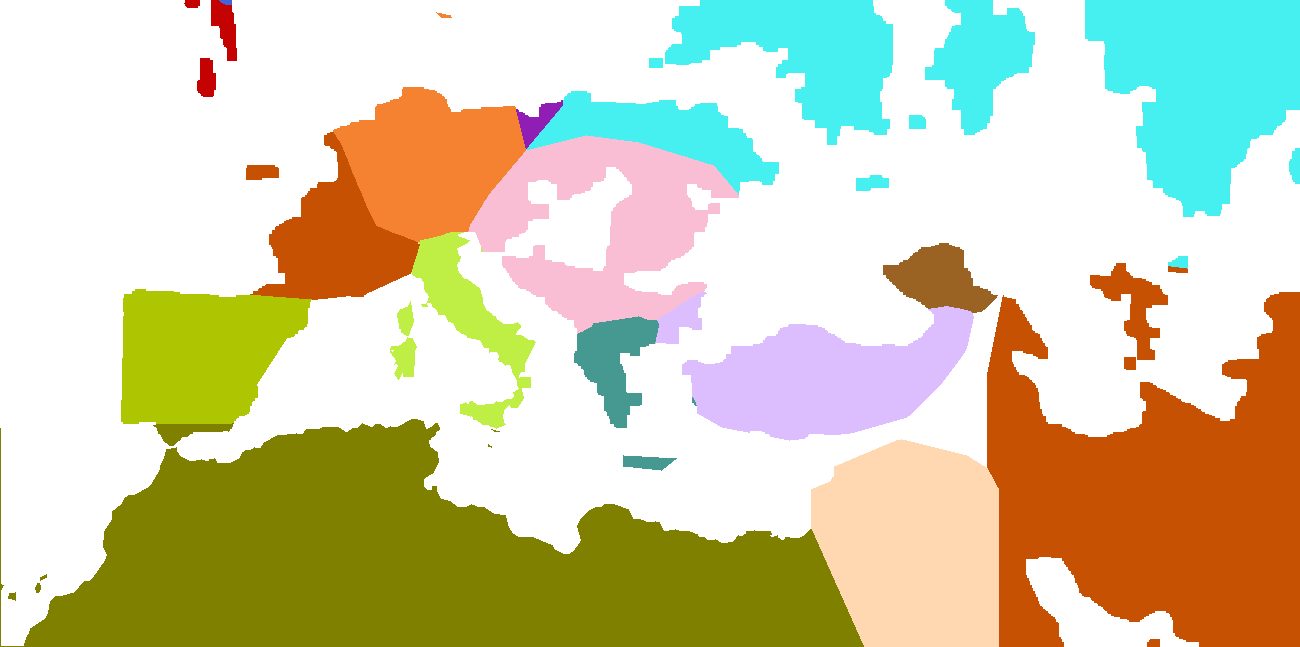
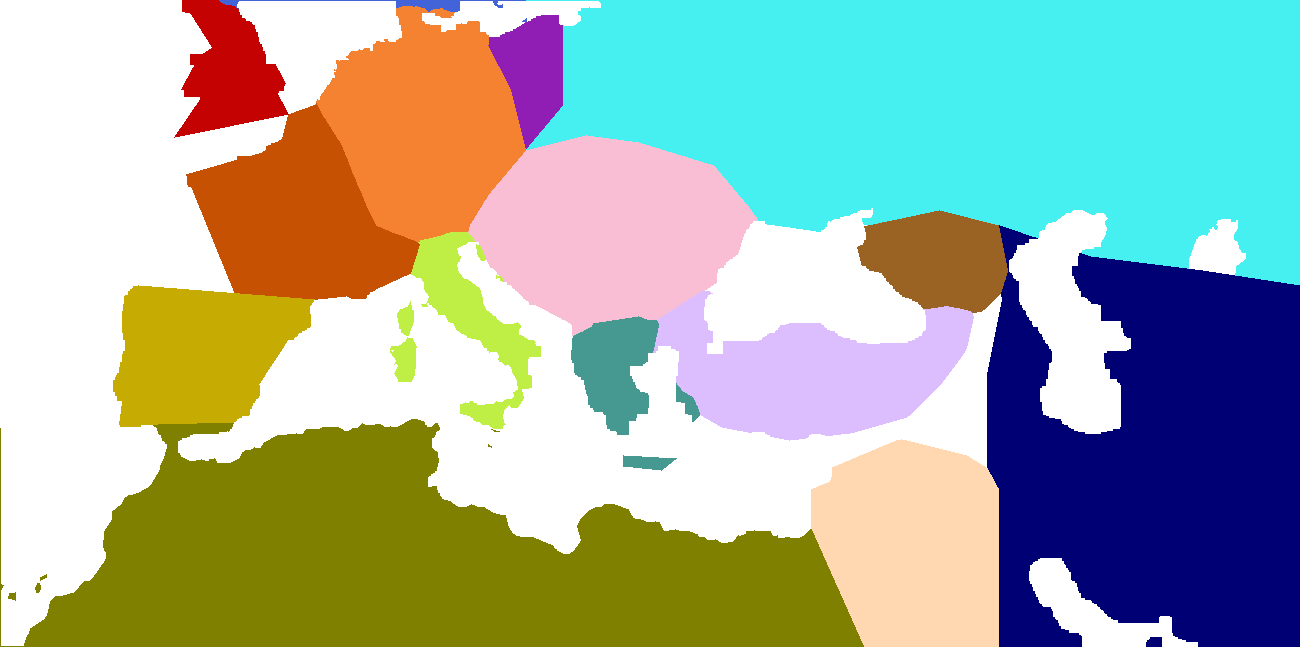
try and fix map but not succesfull

diff --git a/tools/map_editor/server.py b/tools/map_editor/server.py
@@ -2,7 +2,9 @@
 """Local map editor server.
 
 Serves a browser-based tool for tracing faction/territory borders on top
-of a terrain image. Everything the editor writes goes to a *dev* location:
+of a clean line-art coastline map. Land is white fill, sea is a dark
+outline stroke; see assert_clean_coastline_source. Everything the editor
+writes goes to a *dev* location:
 tools/map_editor/dev_map_data/. That's never the live game data, so you
 can iterate freely. Run `make promote-map` from the repo root once a
 trace is ready. That copies it into campaign/map_data/, the directory
@@ -39,9 +41,8 @@ from pathlib import Path
 
 import cv2
 import numpy as np
-from PIL import Image, ImageDraw
-
 from gapfill import clip_sea_overflow, fill_land_gaps
+from PIL import Image, ImageDraw
 
 REPO_ROOT = Path(__file__).resolve().parents[2]
 STATIC_DIR = Path(__file__).resolve().parent / "static"
@@ -52,14 +53,35 @@ MIN_CONTOUR_AREA = 12  # px^2, drops single-pixel noise contours on import
 SIMPLIFY_EPSILON = 1.2  # px, cv2.approxPolyDP tolerance on import
 
 COASTLINE_WORK_WIDTH = 900  # px, classification runs on a downscaled copy for speed
-COASTLINE_BLUE_BIAS = 8  # min (B - R) for a pixel to count as "sea"-toned
+COASTLINE_LAND_MIN_GRAY = 245  # min grayscale value for a pixel to count as land fill
+# A source flattened from real transparency (e.g. a cached copy of a PNG
+# viewed outside its original app) often bakes the checkerboard in as
+# actual alternating-color pixels. A *median* blur is a no-op on a
+# perfectly regular checkerboard at any kernel size - each cell is
+# outvoted by its opposite-color neighbors, so the pattern survives
+# untouched. A *box* blur averages instead of voting, so it collapses the
+# checker into a uniform mid-gray that reads correctly as sea, while
+# solid land fill (already uniform white) stays unaffected. Must exceed
+# the checker's cell period (empirically ~15px here) to fully collapse it.
+COASTLINE_DENOISE_KERNEL = 31  # px, box-blur size for collapsing checkerboard noise
 COASTLINE_MORPH_KERNEL = 7  # px, smooths the sea mask and drops speckle before tracing
 COASTLINE_MIN_CONTOUR_AREA = 120  # px^2 at working resolution, drops speckle contours
 COASTLINE_SIMPLIFY_EPSILON = 2.0  # px at working resolution
 
+# assert_clean_coastline_source: a real painted-terrain photo/render has a
+# continuous spread of midtone pixels (mountains, shading, texture). Clean
+# line art has almost none - just white fill, a dark outline stroke, and
+# whatever color the sea uses. If more than this fraction of pixels land
+# in the mid-gray band, the source probably shows painted terrain again,
+# not the flat outline map this classifier expects.
+COASTLINE_MIDTONE_MIN_GRAY = 60
+COASTLINE_MIDTONE_MAX_GRAY = 200
+COASTLINE_MAX_MIDTONE_FRACTION = 0.05
+
 
 def make_handler(args: argparse.Namespace):
     image_path = Path(args.image).resolve()
+    assert_clean_coastline_source(image_path)
     dev_dir = Path(args.dev_dir).resolve()
     game_dir = Path(args.game_dir).resolve()
     project_path = dev_dir / "project.json"
@@ -78,7 +100,7 @@ def make_handler(args: argparse.Namespace):
             self.end_headers()
             self.wfile.write(body)
 
-        def _send_file(self, path: Path, content_type: str = None):
+        def _send_file(self, path: Path, content_type: str | None = None):
             if not path.is_file():
                 self.send_error(404, "Not found")
                 return
@@ -142,7 +164,7 @@ def make_handler(args: argparse.Namespace):
                 try:
                     result = export_project(payload, image_path, dev_dir)
                     self._send_json({"ok": True, **result})
-                except Exception as exc:  # surface errors to the UI
+                except (ValueError, OSError) as exc:  # surface errors to the UI
                     self._send_json({"ok": False, "error": str(exc)}, 500)
             else:
                 self.send_error(404, "Not found")
@@ -198,7 +220,7 @@ def import_from_raster(source_dir: Path, image_path: Path) -> dict | None:
         if not mask.any():
             continue
 
-        contours, hierarchy = cv2.findContours(
+        contours, _hierarchy = cv2.findContours(
             mask, cv2.RETR_EXTERNAL, cv2.CHAIN_APPROX_SIMPLE
         )
         polygons = []
@@ -244,28 +266,63 @@ def load_or_build_coastline(image_path: Path, cache_path: Path) -> dict:
     return {"lines": result["lines"]}
 
 
+def assert_clean_coastline_source(image_path: Path) -> None:
+    """Enforce the backdrop is clean line-art: white land fill, a dark
+    outline stroke, sea in any other color. Never a painted/photographic
+    terrain render.
+
+    No per-pixel rule can classify a painted terrain image reliably.
+    Git history shows this used to be a blue-vs-red channel bias, then a
+    hue band. Both mis-read real land as sea.
+
+    A clean outline map sidesteps that entirely. Land is just "is this
+    pixel white," which only holds if the source looks like line art.
+    So this raises loudly instead of silently producing a bad mask.
+    Called once at server/preview startup, not per-classification.
+    """
+    full = cv2.imread(str(image_path), cv2.IMREAD_COLOR)
+    if full is None:
+        raise ValueError(f"Could not read image at {image_path}")
+    gray = cv2.cvtColor(full, cv2.COLOR_BGR2GRAY)
+    midtone = (gray >= COASTLINE_MIDTONE_MIN_GRAY) & (
+        gray <= COASTLINE_MIDTONE_MAX_GRAY
+    )
+    midtone_fraction = float(midtone.mean())
+    if midtone_fraction > COASTLINE_MAX_MIDTONE_FRACTION:
+        raise ValueError(
+            f"{image_path} doesn't look like a clean line-art coastline map: "
+            f"{midtone_fraction:.0%} of pixels are mid-gray (expected white "
+            f"land fill + a dark outline stroke, under "
+            f"{COASTLINE_MAX_MIDTONE_FRACTION:.0%} midtone). Painted/textured "
+            "terrain art can't be classified reliably here - trace over a "
+            "flat white-fill/black-outline coastline drawing instead."
+        )
+
+
 def _classify_sea_mask(image_path: Path):
-    """Shared land/sea heuristic: classify per-pixel on blue-vs-red bias at
-    a downscaled working resolution, then denoise with morphology. Returns
+    """Shared land/sea heuristic: classify per-pixel on brightness at a
+    downscaled working resolution, then denoise with morphology. Returns
     (sea_mask_work, full_w, full_h, work_w, work_h).
 
-    Our painted terrain art renders water in cool navy/teal tones and land
-    in warm tan/green/brown. We classify on channel bias rather than
-    region-growing from a "known sea" seed. Texture noise and haze over
-    distant land make flood-fill unreliable here.
+    The backdrop is clean line-art (see assert_clean_coastline_source):
+    white land, a dark outline stroke, sea in any other color.
+    Classification is just "is this pixel white" - no color-space
+    heuristics needed.
 
     This is a coarse heuristic, not per-pixel-exact."""
     full = cv2.imread(str(image_path), cv2.IMREAD_COLOR)
     full_h, full_w = full.shape[:2]
 
+    # Denoise at full resolution, before downscaling - see
+    # COASTLINE_DENOISE_KERNEL for why this has to be a box blur.
+    denoised = cv2.blur(full, (COASTLINE_DENOISE_KERNEL, COASTLINE_DENOISE_KERNEL))
+
     scale = min(1.0, COASTLINE_WORK_WIDTH / full_w)
     work_w, work_h = max(1, round(full_w * scale)), max(1, round(full_h * scale))
-    work = cv2.resize(full, (work_w, work_h), interpolation=cv2.INTER_AREA)
-    work = cv2.medianBlur(work, 5)
+    work = cv2.resize(denoised, (work_w, work_h), interpolation=cv2.INTER_AREA)
 
-    blue = work[:, :, 0].astype(np.int16)
-    red = work[:, :, 2].astype(np.int16)
-    sea_mask = ((blue - red) > COASTLINE_BLUE_BIAS).astype(np.uint8) * 255
+    gray = cv2.cvtColor(work, cv2.COLOR_BGR2GRAY).astype(np.int16)
+    sea_mask = (gray < COASTLINE_LAND_MIN_GRAY).astype(np.uint8) * 255
 
     kernel = np.ones((COASTLINE_MORPH_KERNEL, COASTLINE_MORPH_KERNEL), np.uint8)
     sea_mask = cv2.morphologyEx(sea_mask, cv2.MORPH_OPEN, kernel)

diff --git a/tools/map_editor/tests/test_gapfill_realistic.py b/tools/map_editor/tests/test_gapfill_realistic.py
@@ -18,10 +18,9 @@ from pathlib import Path
 
 import numpy as np
 import pytest
-from PIL import Image, ImageDraw
-
 import server as srv
 from gapfill import clip_sea_overflow, fill_land_gaps
+from PIL import Image, ImageDraw
 
 REPO_ROOT = Path(__file__).resolve().parents[3]
 REAL_BACKDROP = REPO_ROOT / "campaign" / "map_data" / "backdrop.png"
@@ -69,7 +68,12 @@ def test_real_project_export_leaves_no_unfilled_land_gaps():
     import cv2
 
     UNCLAIMED_COMPONENT_FLOOR_PX = 2000  # below this, it's a seam, not a country
-    SEAM_BUDGET_PX = 700  # generous headroom over the current ~580px baseline
+    # Raised from 700: fixing the land/sea hue classification (previously a
+    # raw B-R channel bias that misread blue-shifted plains as sea) exposed
+    # real, previously-hidden gaps below the country floor - Crimea
+    # (unclaimed by Western Russia) and a stretch of Turkey/Caucasus's own
+    # north coast - on top of the ~580px baseline.
+    SEAM_BUDGET_PX = 2400
 
     project = json.loads(REAL_PROJECT.read_text())
     size = tuple(project["image_size"])

diff --git a/tools/map_editor/tests/test_server.py b/tools/map_editor/tests/test_server.py
@@ -12,9 +12,8 @@ from pathlib import Path
 import cv2
 import numpy as np
 import pytest
-from PIL import Image
-
 import server as srv
+from PIL import Image
 
 
 def make_image(path: Path, size=(40, 40), color=(200, 200, 200)):
@@ -22,11 +21,11 @@ def make_image(path: Path, size=(40, 40), color=(200, 200, 200)):
 
 
 def make_two_tone_image(path: Path, width=200, height=100):
-    """Left half warm/land-colored, right half cool/sea-colored, matching
-    the BGR channel bias classify_coastline() looks for."""
+    """Left half white land fill, right half dark sea, matching the clean
+    line-art coastline convention classify_coastline() looks for."""
     img = np.zeros((height, width, 3), dtype=np.uint8)
-    img[:, : width // 2] = (40, 90, 150)  # BGR: land, red-biased
-    img[:, width // 2 :] = (150, 90, 40)  # BGR: sea, blue-biased
+    img[:, : width // 2] = (255, 255, 255)  # BGR: white land fill
+    img[:, width // 2 :] = (40, 40, 40)  # BGR: dark sea
     cv2.imwrite(str(path), img)
 
 

diff --git a/tools/map_editor/preview.py b/tools/map_editor/preview.py
@@ -17,9 +17,8 @@ import argparse
 import json
 from pathlib import Path
 
-from PIL import Image, ImageDraw
-
 import server as srv
+from PIL import Image, ImageDraw
 
 REPO_ROOT = Path(__file__).resolve().parents[2]
 DEV_DIR_DEFAULT = Path(__file__).resolve().parent / "dev_map_data"
@@ -112,6 +111,7 @@ def main():
     )
     args = parser.parse_args()
 
+    srv.assert_clean_coastline_source(Path(args.image))
     project = json.loads(Path(args.project).read_text())
     composite, problems = render_preview(project, Path(args.image))
 

diff --git a/tools/map_editor/tests/test_gapfill.py b/tools/map_editor/tests/test_gapfill.py
@@ -1,7 +1,6 @@
 """Unit tests for gapfill's fill/clip functions, isolated from the exporter."""
 
 import numpy as np
-
 from gapfill import clip_sea_overflow, fill_land_gaps
 
 WHITE = (255, 255, 255)

diff --git a/.claude/skills/map-editor/SKILL.md b/.claude/skills/map-editor/SKILL.md
@@ -3,14 +3,14 @@ name: map-editor
 description: How the campaign's territory-border map editor works (tools/map_editor) — tracing/editing faction region polygons, exporting, validating, previewing, and promoting to the live game. Use whenever asked to add/change/fix a faction's territory borders, region colors, or region_map.png/regions.txt, or to debug why the in-game province map looks wrong.
 ---
 
-Reference for `tools/map_editor` — a browser-based tool for tracing faction territory borders on top of the campaign's painted terrain image. It is not part of the Godot game itself; it's an offline editing step that produces the two files `campaign/province_map.gd` actually loads at runtime.
+Reference for `tools/map_editor` — a browser-based tool for tracing faction territory borders on top of a clean line-art coastline map. It is not part of the Godot game itself; it's an offline editing step that produces the two files `campaign/province_map.gd` actually loads at runtime.
 
 ## Mental model
 
 - **Source of truth while editing:** `tools/map_editor/dev_map_data/project.json` — full-precision polygon points per region, in image pixel coordinates. This is what the editor UI reads and writes; treat it as the real editable data, not `region_map.png`.
 - **Dev export:** `dev_map_data/region_map.png` (flat-colored raster, one solid color per territory) + `dev_map_data/regions.txt` (JSON map of `"#hexcolor": "Region_Name"`). Produced from `project.json` by the Export button. Never touches the live game.
 - **Live game data:** `campaign/map_data/region_map.png` + `regions.txt` — same two-file format, loaded by `campaign/province_map.gd`. Only `make promote-map` copies the dev export here.
-- **Backdrop:** `campaign/map_data/backdrop.png` — the painted terrain art everything is traced on top of, used for both the editor's background image and the land/sea classification heuristic.
+- **Backdrop:** `campaign/map_data/backdrop.png` — a clean line-art coastline map (white land fill, dark outline stroke, sea rendered as anything else) everything is traced on top of, used for both the editor's background image and the land/sea classification. `server.assert_clean_coastline_source` enforces this convention at startup — painted/photographic terrain art is rejected, not silently misclassified. The previous painted-terrain backdrop is kept at `campaign/map_data/backdrop_terrain_legacy.png` for reference.
 
 Data flow: `project.json` (browser, full precision) --Export button--> `dev_map_data/{region_map.png,regions.txt}` --`make promote-map`--> `campaign/map_data/{region_map.png,regions.txt}` --Godot reimport--> live game.
 
